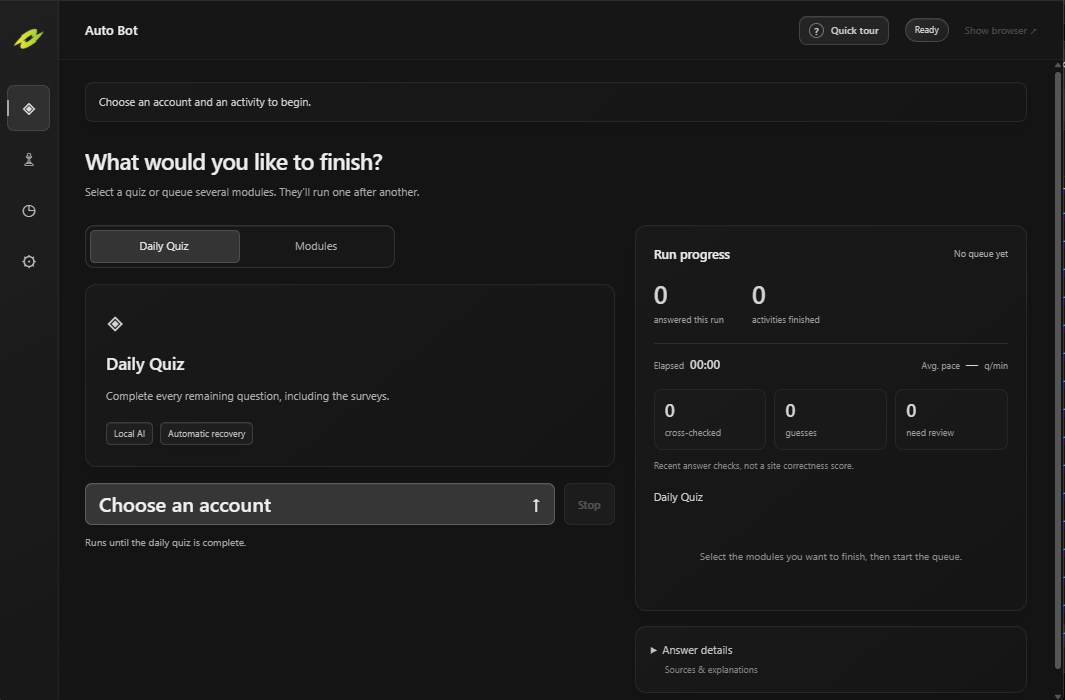
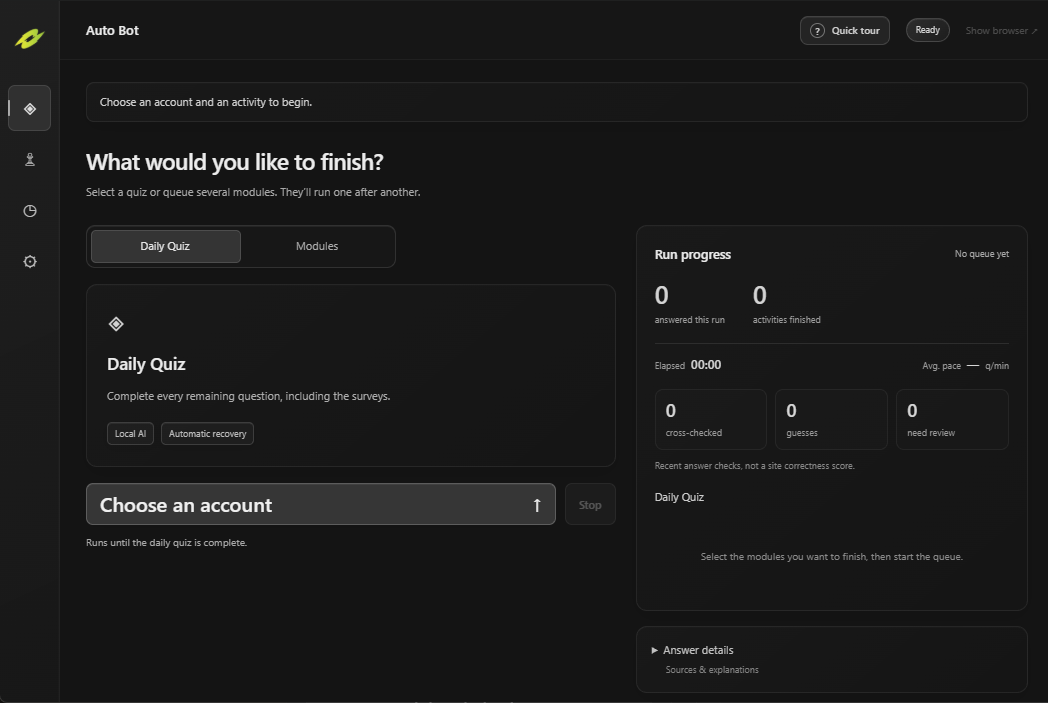
Update workspace screenshot and frame it with a rectangular glow

diff --git a/website/styles.css b/website/styles.css
@@ -80,7 +80,7 @@ h1 span {color:#979797}
 .hero-terms {font-size:12px;color:#818181;line-height:1.8;margin:7px 0 0}
 .hero-terms a {text-decoration:underline;text-underline-offset:3px}
 .hero-product {max-width:1040px;position:relative;isolation:isolate;margin:55px auto 0;padding:0 5px}
-.hero-product:before {content:"";position:absolute;inset:8% 0 -17%;z-index:-1;pointer-events:none;border-radius:50%;background:radial-gradient(ellipse at 50% 78%,#cbdc4459 0%,#a9cc4030 45%,transparent 72%);filter:blur(38px)}
+.hero-product:before {content:"";position:absolute;inset:0 5px;z-index:-1;pointer-events:none;border-radius:12px;background:linear-gradient(115deg,#dde33a,#a9cc40);filter:blur(32px);opacity:.24}
 .app-window {overflow:hidden;border:1px solid #ffffff1c;border-radius:12px;background:#161616;box-shadow:0 25px 70px #0004}
 .screenshot-window {transform:perspective(1800px) rotateX(var(--tilt-x,0deg)) rotateY(var(--tilt-y,0deg));transition:border-color 200ms}
 .workspace-shot {display:block;width:100%;height:auto;background:#141414}
@@ -244,7 +244,7 @@ h2 {font-size:clamp(32px,3.2vw,44px);line-height:1.2;letter-spacing:-1.8px;font-
   .hero-product {margin-top:38px;padding:0}
   .app-window {border-radius:8px;box-shadow:0 16px 45px #0003}
   .screenshot-window {transform:none}
-  .hero-product:before {inset:8% 0 -17%;filter:blur(24px)}
+  .hero-product:before {inset:0;border-radius:8px;filter:blur(22px);opacity:.22}
   .inside-section {padding-top:67px;padding-bottom:55px}
   .section-heading {display:block;margin-bottom:26px}
   .section-heading h2,h2 {font-size:32px;letter-spacing:-1.2px}

diff --git a/website/index.html b/website/index.html
@@ -47,7 +47,7 @@
       </div>
       <figure class="hero-product" data-parallax>
         <div class="app-window screenshot-window">
-          <img class="workspace-shot" src="/assets/bolt-workspace.png" width="1065" height="700" alt="Bolt desktop app with activity selection, an account chooser, and run progress showing elapsed time and questions per minute." fetchpriority="high">
+          <img class="workspace-shot" src="/assets/bolt-workspace.png" width="1048" height="703" alt="Bolt desktop app with activity selection, an account chooser, and run progress showing elapsed time and questions per minute." fetchpriority="high">
         </div>
       </figure>
     </section>

diff --git a/website/README.md b/website/README.md
@@ -2,7 +2,7 @@
 
 A buildless, responsive promotional site using the desktop UI's exact **#141414** background, neutral surfaces, and a restrained yellow-green logo accent. The layout centers the real screenshot, keeps copy concise, and combines the feature details into one tabbed workspace section. Static HTML, CSS, and JavaScript; no analytics, forms, cookies, backend, or hosted AI calls.
 
-The workspace showcase and download panel retain the original green gradient styling. The download panel includes a faint transparent logo watermark. The full-width navbar stays visible while scrolling with only a translucent yellow-green gradient fading to transparent, without a solid fill, blur, or bottom border. Anchor offsets leave room for the sticky navigation on desktop and mobile. The real app screenshot has a soft yellow-green backlight and subtle hover parallax, with no decorative window bar or full-size link.
+The workspace showcase and download panel retain the original green gradient styling. The download panel includes a faint transparent logo watermark. The full-width navbar stays visible while scrolling with only a translucent yellow-green gradient fading to transparent, without a solid fill, blur, or bottom border. Anchor offsets leave room for the sticky navigation on desktop and mobile. The supplied app screenshot has a rectangular yellow-green backlight around all four edges and subtle hover parallax, with no decorative window bar or full-size link.
 
 Production: **https://bolt-automation.vercel.app**. Vercel project: **bolt-automation**, ID **prj_dRR68XD4me2xFwzrPo324YPkGmXb**, in **johnasdr39-1559s-projects**. Production is public; preview deployments retain Vercel Authentication. The initial release was uploaded through the Vercel API; GitHub pushes do not automatically redeploy this project. Upload only this directory's deployable files for future releases, or explicitly configure the Git integration with **website** as its root directory.
 
